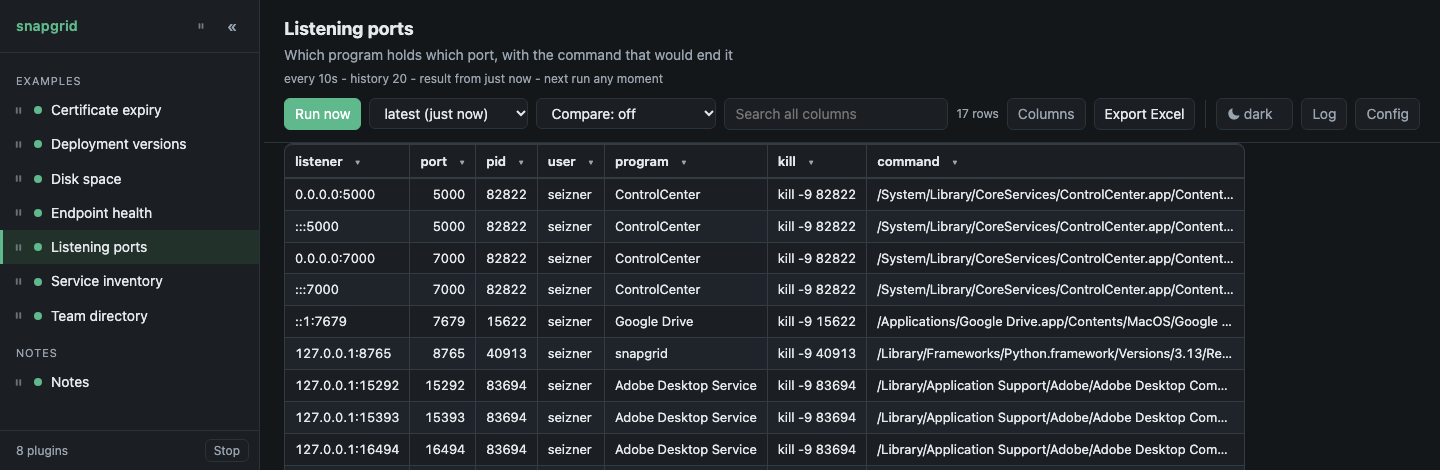
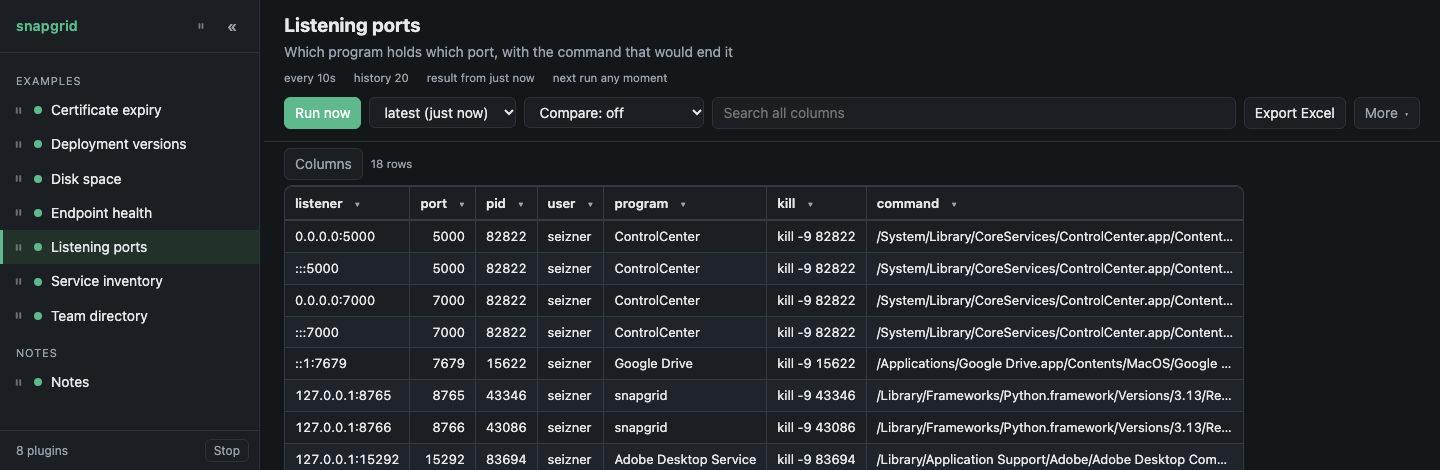
Retake the pictures, which show a toolbar that is no longer there
Every screenshot in the README, in docs/ and beside each example came from
one run of tools/make-screenshots.py, so they are redone together rather than
drifting one at a time. The head loses four pixels at the same time: a taller
name and a row of table controls had cost the table a line of data.

diff --git a/web/style.css b/web/style.css
@@ -298,7 +298,7 @@ body:has(#banner:not([hidden])) #layout { height: calc(100% - var(--banner-heigh
    freshness come third - they are facts about the plugin rather than the
    thing you came to read, so they are smaller and quieter than the
    description above them rather than the same size in a different colour. */
-#panel-head { padding: 16px 20px 12px; }
+#panel-head { padding: 14px 20px 10px; }
 #p-name { margin: 0; font-size: 19px; line-height: 1.25; }
 #p-desc { margin: 4px 0 0; color: var(--muted); max-width: 90ch; }
 /* Space between the facts rather than a character: every separator that can
@@ -318,7 +318,7 @@ body:has(#banner:not([hidden])) #layout { height: calc(100% - var(--banner-heigh
    in the toolbar, and the row count is the quietest thing on the line. */
 #table-bar {
   display: flex; align-items: center; gap: 8px; flex-wrap: wrap;
-  padding: 8px 20px 6px;
+  padding: 6px 20px 5px;
 }
 #table-bar .grow { flex: 1; }
 #row-note { color: var(--muted); font-size: 11.5px; }
